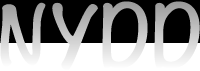
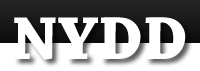
the index page becomes floating left and right

diff --git a/themes/base/style.css b/themes/base/style.css
@@ -80,6 +80,10 @@ body {
   /* width: 58.4% */
   /* background-color: #F00 */ }
 
+body.home #content {
+  width: 1000px;
+  margin: 0 auto; }
+
 #secondary {
   float: right;
   margin-right: 7.6%;
@@ -271,7 +275,7 @@ body {
   background: #e2e2e2; }
 
 #page {
-  background: white; }
+  /* background: white */ }
 
 /* Headings */
 h1, h2, h3, h4, h5, h6 {
@@ -473,7 +477,7 @@ a {
     height: 43px;
     background-image: url(images/nydd.png);
     background-repeat: no-repeat;
-    background-position: 10px 4.5px;
+    background-position: 96px 0px;
     padding-right: 10px;
     padding-left: 10px; }
 
@@ -619,11 +623,25 @@ a {
   /* margin: 0 0 1.625em */
   /* padding: 0 0 1.625em */
   /* position: relative */
-  width: 30%;
-  margin: 1%;
-  float: left;
-  border: 1px solid #999999;
   background-color: white; }
+
+.home .hentry, .home .no-results {
+  width: 47%;
+  margin: 1%;
+  border: 1px solid #999999;
+  -moz-box-shadow: 3px 3px 3px rgba(0, 0, 0, 0.6);
+  -webkit-box-shadow: 3px 3px 3px rgba(0, 0, 0, 0.6);
+  box-shadow: 3px 3px 3px rgba(0, 0, 0, 0.6); }
+  .home .hentry.not-in-column, .home .no-results.not-in-column {
+    visibility: hidden; }
+  .home .hentry.left-col, .home .no-results.left-col {
+    float: left;
+    clear: left;
+    visibility: visible; }
+  .home .hentry.right-col, .home .no-results.right-col {
+    float: right;
+    clear: right;
+    visibility: visible; }
 
 .hentry:last-child, .no-results {
   border-bottom: none; }
@@ -909,27 +927,29 @@ embed, iframe, object {
     margin: 5px 0 10px; }
 
 /* Comments link */
-.entry-header .comments-link a {
-  background: #eeeeee url(images/comment-bubble.png) no-repeat;
-  color: #666666;
-  font-size: 13px;
-  font-weight: normal;
-  line-height: 35px;
-  overflow: hidden;
-  padding: 0 0 0;
-  position: absolute;
-  top: 1.5em;
-  right: 0;
-  text-align: center;
-  text-decoration: none;
-  width: 43px;
-  height: 36px; }
-  .entry-header .comments-link a:hover, .entry-header .comments-link a:focus, .entry-header .comments-link a:active {
-    background-color: #1982d1;
-    color: white;
-    color: rgba(255, 255, 255, 0.8); }
-.entry-header .comments-link .leave-reply {
-  visibility: hidden; }
+.entry-header .comments-link {
+  position: relative; }
+  .entry-header .comments-link a {
+    background: #eeeeee url(images/comment-bubble.png) no-repeat;
+    color: #666666;
+    font-size: 13px;
+    font-weight: normal;
+    line-height: 35px;
+    overflow: hidden;
+    padding: 0 0 0;
+    position: absolute;
+    top: 1.5em;
+    right: 0;
+    text-align: center;
+    text-decoration: none;
+    width: 43px;
+    height: 36px; }
+    .entry-header .comments-link a:hover, .entry-header .comments-link a:focus, .entry-header .comments-link a:active {
+      background-color: #1982d1;
+      color: white;
+      color: rgba(255, 255, 255, 0.8); }
+  .entry-header .comments-link .leave-reply {
+    visibility: hidden; }
 .entry-header .entry-format {
   color: #666666;
   font-size: 10px;

diff --git a/themes/base/js/layout.js b/themes/base/js/layout.js
@@ -1,0 +1,72 @@
+if (typeof Nydd === 'undefined') {
+  Nydd = {};
+}
+Nydd.ColumnLayout = {};
+(
+function () {
+  var slots = [];
+  var lastRight = null;
+  var lastLeft = null;
+  var addSlot = function (elm, isLeft) {
+    var $elm = $(elm)
+    if (isLeft) {
+      
+    }
+  };
+  Nydd.ColumnLayout.pushSlot = function (elm) {
+    slots[slots.length] = elm;
+    var $elm = $(elm);
+    if (slots.length === 1) {
+      $elm
+        .addClass('left-col')
+        .data('column', true);
+      lastLeft = elm;
+      return;
+    }
+    else if (slots.length === 2) {
+      $elm
+        .addClass('right-col')
+        .data('column', false);
+      lastRight = elm;
+      return;
+    }
+    if (checkSide()) {
+      $elm
+        .addClass('left-col')
+        .data('column', true);
+      lastLeft = elm;
+    }
+    else {
+      $elm
+        .addClass('right-col')
+        .data('column', false);
+      lastRight = elm;
+    }
+  };
+
+  /**
+   * compare the bottom y position of lastLeft and lastRight.
+   * return true for left
+   */
+  var checkSide = function () {
+    var result = true;
+    var $L = $(lastLeft);
+    var $R = $(lastRight);
+    var bottomL = parseInt($L.offset().top + $L.outerHeight(), 10);
+    var bottomR = parseInt($R.offset().top + $R.outerHeight(), 10);
+    if (bottomR < bottomL) {
+      result = false;
+    }
+    return result;
+  };
+
+  var init = function () {
+    $articles = $('#content > .not-in-column');
+    $articles.each(
+      function (i, elm) {
+        Nydd.ColumnLayout.pushSlot(elm);
+      }
+    );
+  };
+  $(init);
+})();

diff --git a/themes/base/sass/05_content.sass b/themes/base/sass/05_content.sass
@@ -27,11 +27,24 @@
   /* margin: 0 0 1.625em
   /* padding: 0 0 1.625em
   /* position: relative
-  width: 30%
-  margin: 1%
-  float: left
-  border: 1px solid #999
   background-color: #FFF
+
+.home
+  .hentry, .no-results
+    width: $home_article_width
+    margin: $home_article_margin
+    border: 1px solid #999
+    @include box-shadow(3px, 3px, 3px, rgba(0, 0, 0, 0.6))
+    &.not-in-column
+      visibility: hidden
+    &.left-col
+      float: left
+      clear: left
+      visibility: visible
+    &.right-col
+      float: right
+      clear: right
+      visibility: visible
 
 .hentry:last-child, .no-results
   border-bottom: none
@@ -336,6 +349,7 @@ embed, iframe, object
 
 .entry-header
   .comments-link
+    position: relative
     a
       background: #eeeeee url(images/comment-bubble.png) no-repeat
       color: #666666

diff --git a/themes/base/sass/_statics.sass b/themes/base/sass/_statics.sass
@@ -8,7 +8,18 @@ $moving_image_h: 71px
 $moving_image_zIndex: 5100
 
 $site_title_bg: url(images/nydd.png)
-$site_title_w: $moving_image_w /* originally 96px */
-$site_title_h: 34px
+$site_title_bg_width: 104px
+$site_title_bg_height: 43px
+$site_title_w: $moving_image_w
 $site_title_padding_hor: 10px
+$site_title_bg_x: $moving_image_w - $site_title_bg_width
+$site_title_bg_y: 0px
+
+$home_content_width: 1000px
+$home_content_margin: 0 auto
+
+$home_article_width: 47%
+$home_article_margin: 1%
+
+
 

diff --git a/themes/base/sass/04_header.sass b/themes/base/sass/04_header.sass
@@ -28,7 +28,7 @@
     height: $menu_height
     background-image: $site_title_bg
     background-repeat: no-repeat
-    background-position: $site_title_padding_hor (($menu_height - $site_title_h) / 2)
+    background-position: $site_title_bg_x $site_title_bg_y
     padding-right: $site_title_padding_hor
     padding-left: $site_title_padding_hor
 

diff --git a/themes/base/sass/02_structure.sass b/themes/base/sass/02_structure.sass
@@ -27,6 +27,10 @@ body
   /* width: 58.4%
   /* background-color: #F00
 
+body.home #content
+  width: $home_content_width
+  margin: $home_content_margin
+
 #secondary
   float: right
   margin-right: 7.6%

diff --git a/themes/base/sass/03_global.sass b/themes/base/sass/03_global.sass
@@ -11,7 +11,7 @@ body
   background: #e2e2e2
 
 #page
-  background: white
+  /* background: white
 
 /* Headings
 

diff --git a/themes/base/content-featured.php b/themes/base/content-featured.php
@@ -9,7 +9,19 @@
 
 global $feature_class;
 ?>
-<article id="post-<?php the_ID(); ?>" <?php post_class( $feature_class ); ?>>
+<?php
+$my_classes = array();
+if (is_home() || is_front_page()) {
+  array_push($my_classes, 'not-in-column');
+}
+if ( !empty($feature_class) ) {
+  if ( !is_array( $feature_class ) ) {
+    $feature_class = implode(' ', $feature_class);
+  }
+  array_push($my_classes, $feature_class);
+}
+?>
+<article id="post-<?php the_ID(); ?>" <?php post_class($my_classes); ?>>
 	<header class="entry-header">
 		<h2 class="entry-title"><a href="<?php the_permalink(); ?>" title="<?php printf( esc_attr__( 'Permalink to %s', 'twentyeleven' ), the_title_attribute( 'echo=0' ) ); ?>" rel="bookmark"><?php the_title(); ?></a></h2>
 

diff --git a/themes/base/content-image.php b/themes/base/content-image.php
@@ -9,7 +9,13 @@
  * @since Twenty Eleven 1.0
  */
 ?>
-	<article id="post-<?php the_ID(); ?>" <?php post_class( 'indexed' ); ?>>
+<?php
+$my_classes = array('indexed');
+if (is_home() || is_front_page()) {
+  array_push($my_classes, 'not-in-column');
+}
+?>
+  <article id="post-<?php the_ID(); ?>" <?php post_class($my_classes); ?>>
 		<header class="entry-header">
 			<hgroup>
 				<h2 class="entry-title"><a href="<?php the_permalink(); ?>" title="<?php printf( esc_attr__( 'Permalink to %s', 'twentyeleven' ), the_title_attribute( 'echo=0' ) ); ?>" rel="bookmark"><?php the_title(); ?></a></h2>

diff --git a/themes/base/content-status.php b/themes/base/content-status.php
@@ -8,8 +8,13 @@
  * @subpackage Twenty_Eleven
  */
 ?>
-
-	<article id="post-<?php the_ID(); ?>" <?php post_class(); ?>>
+<?php
+$my_classes = array('');
+if (is_home() || is_front_page()) {
+  array_push($my_classes, 'not-in-column');
+}
+?>
+  <article id="post-<?php the_ID(); ?>" <?php post_class($my_classes); ?>>
 		<header class="entry-header">
 			<hgroup>
 				<h2 class="entry-title"><a href="<?php the_permalink(); ?>" title="<?php printf( esc_attr__( 'Permalink to %s', 'twentyeleven' ), the_title_attribute( 'echo=0' ) ); ?>" rel="bookmark"><?php the_title(); ?></a></h2>

diff --git a/themes/base/content-link.php b/themes/base/content-link.php
@@ -9,8 +9,13 @@
  * @since Twenty Eleven 1.0
  */
 ?>
-
-	<article id="post-<?php the_ID(); ?>" <?php post_class(); ?>>
+<?php
+$my_classes = array('');
+if (is_home() || is_front_page()) {
+  array_push($my_classes, 'not-in-column');
+}
+?>
+  <article id="post-<?php the_ID(); ?>" <?php post_class($my_classes); ?>>
 		<header class="entry-header">
 			<hgroup>
 				<h2 class="entry-title"><a href="<?php the_permalink(); ?>" title="<?php printf( esc_attr__( 'Permalink to %s', 'twentyeleven' ), the_title_attribute( 'echo=0' ) ); ?>" rel="bookmark"><?php the_title(); ?></a></h2>

diff --git a/themes/base/content-quote.php b/themes/base/content-quote.php
@@ -7,8 +7,13 @@
  * @since Twenty Eleven 1.0
  */
 ?>
-
-	<article id="post-<?php the_ID(); ?>" <?php post_class(); ?>>
+<?php
+$my_classes = array('');
+if (is_home() || is_front_page()) {
+  array_push($my_classes, 'not-in-column');
+}
+?>
+  <article id="post-<?php the_ID(); ?>" <?php post_class($my_classes); ?>>
 		<header class="entry-header">
 			<hgroup>
 				<h2 class="entry-title"><a href="<?php the_permalink(); ?>" title="<?php printf( esc_attr__( 'Permalink to %s', 'twentyeleven' ), the_title_attribute( 'echo=0' ) ); ?>" rel="bookmark"><?php the_title(); ?></a></h2>
